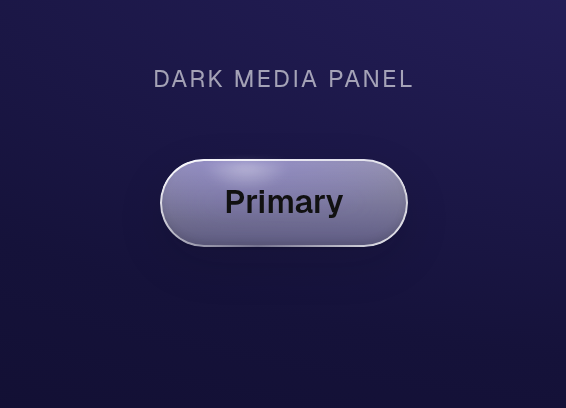
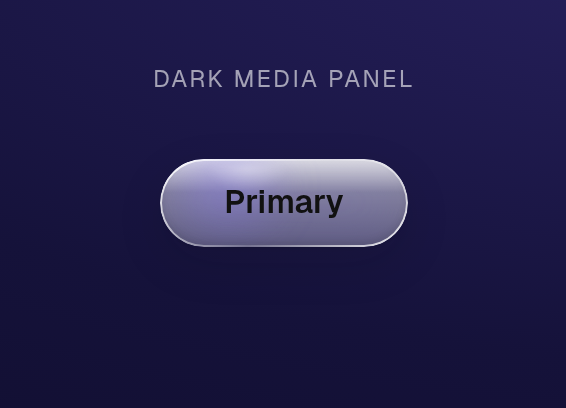
Rebuild Primary reference button as a stack of optical layers
Discard the single-element effect stack. The button is now composed of one DOM
element per physical layer (cast shadow, refractive body, internal volume,
incident light, internal reflection, specular, machined edge), per
docs/DISCIPLINE_GLASS_MATERIAL.md. The pastel violet is no longer a background
gradient: it is an internal-reflection layer — a soft, blurred, asymmetric
luminance suspended in the glass volume (clipped by the refractive body).
Only the isolated /dev/glass reference changes; no library component touched.

Claude-Session: https://claude.ai/code/session_01JSKxADquWPscGGWu93W5g6

Changed region(s): [[0.3004, 0.3824, 0.7208, 0.4706]]

diff --git a/src/app/(dev)/dev/glass/glass.css b/src/app/(dev)/dev/glass/glass.css
@@ -1,12 +1,14 @@
 /*
  * Primary reference button — DISCIPLINE Liquid Glass material.
- * Implements docs/DISCIPLINE_GLASS_MATERIAL.md by composing the canonical
- * --ds-glass-* material sub-tokens. Isolated dev reference; no library file.
- * The eight physical layers are built bottom→front: cast shadow, refractive
- * body, fill, violet capture, inner shadow/highlight, edge light, specular.
+ * REBUILT as a stack of discrete optical layers (one element per physical
+ * layer), composing the canonical --ds-glass-* sub-tokens. See
+ * docs/DISCIPLINE_GLASS_MATERIAL.md. Isolated dev reference; no library file.
+ *
+ * Implied light: one soft source, upper-left, slightly frontal — shared by the
+ * whole product. Highlights live top/upper-left; shadows bottom/lower-right.
  */
 
-.gbp {
+.gb {
   position: relative;
   isolation: isolate;
   display: inline-flex;
@@ -15,67 +17,122 @@
   height: 44px;
   padding: 0 var(--ds-space-6); /* 32px */
   border: 0;
+  background: transparent;
   border-radius: var(--ds-radius-pill);
   cursor: pointer;
 
-  /* Type */
   font-family: var(--ds-font-sans);
   font-size: var(--ds-text-body);
   font-weight: var(--ds-font-weight-semibold);
   color: var(--ds-color-text); /* dark #111 label, canonical §12.3 */
 
-  /* Layer 2 — refractive body (transmission + diffusion + saturation lift) */
+  transition: transform var(--ds-dur-fast) var(--ds-ease-standard);
+}
+
+/* All optical layers fill the pill and never catch the pointer. */
+.gb__shadow,
+.gb__glass,
+.gb__edge,
+.gb__volume,
+.gb__incident,
+.gb__reflection,
+.gb__specular {
+  position: absolute;
+  inset: 0;
+  border-radius: inherit;
+  pointer-events: none;
+}
+
+/* ── Layer: ombre portée (cast shadow) — behind the glass ─────────────── */
+.gb__shadow {
+  z-index: 0;
+  box-shadow: var(--ds-glass-shadow-contact), var(--ds-glass-shadow-ambient);
+  transition: box-shadow var(--ds-dur-fast) var(--ds-ease-standard);
+}
+
+/* ── Layer: réfraction (refractive body) — bends the background through it.
+   This is the clipping container that holds the internal optical layers, so
+   the captured light stays *inside* the glass volume. ─────────────────── */
+.gb__glass {
+  z-index: 1;
+  overflow: hidden;
   backdrop-filter: blur(var(--ds-glass-blur))
     saturate(var(--ds-glass-saturation)) brightness(var(--ds-glass-brightness));
   -webkit-backdrop-filter: blur(var(--ds-glass-blur))
     saturate(var(--ds-glass-saturation)) brightness(var(--ds-glass-brightness));
+}
 
-  /* Layer 3 fill (curved surface) + Layer 4 violet capture (asymmetric,
-     upper-left, never centered, never a full ring, fading into clarity). */
-  background:
-    radial-gradient(
-      135% 150% at 30% -20%,
-      var(--ds-glass-capture-rim) 0%,
-      var(--ds-glass-capture) 24%,
-      var(--ds-glass-capture-falloff) 62%
-    ),
-    linear-gradient(
-      180deg,
-      var(--ds-glass-fill-top) 0%,
-      var(--ds-glass-fill-bottom) 100%
-    );
+/* ── Layer: volume interne (glass thickness): lit top → shaded bottom, plus an
+   inset bottom shadow that reads as the lower inner wall. ──────────────── */
+.gb__volume {
+  background: linear-gradient(
+    180deg,
+    var(--ds-glass-fill-top) 0%,
+    var(--ds-glass-fill-bottom) 100%
+  );
+  box-shadow: inset 0 -2px 4px var(--ds-glass-inner-shadow);
+}
 
-  /* Layers 1 (cast) + 5 (inner shadow) + 6 (inner highlight) in one stack */
-  box-shadow:
-    var(--ds-glass-shadow-contact),
-    var(--ds-glass-shadow-ambient),
-    inset 0 1px 0 var(--ds-glass-inner-highlight),
-    inset 0 -2px 4px var(--ds-glass-inner-shadow);
+/* ── Layer: lumière incidente (incident light hitting the top face) ────── */
+.gb__incident {
+  background: linear-gradient(
+    180deg,
+    var(--ds-glass-inner-highlight) 0%,
+    transparent 38%
+  );
+  mix-blend-mode: screen;
+}
 
+/* ── Layer: réflexion interne (the violet light captured in the glass volume).
+   A soft, blurred, asymmetric luminance suspended upper-left — NOT a fill, NOT
+   a background gradient. Clipped by .gb__glass so it lives within the volume. */
+.gb__reflection {
+  inset: auto;
+  top: -55%;
+  left: -8%;
+  width: 70%;
+  height: 170%;
+  border-radius: 50%;
+  background: radial-gradient(
+    closest-side,
+    var(--ds-glass-capture-rim) 0%,
+    var(--ds-glass-capture) 38%,
+    var(--ds-glass-capture-falloff) 78%
+  );
+  filter: blur(9px);
   transition:
     transform var(--ds-dur-fast) var(--ds-ease-standard),
-    box-shadow var(--ds-dur-fast) var(--ds-ease-standard);
+    opacity var(--ds-dur-fast) var(--ds-ease-standard);
 }
 
-.gbp__label {
-  position: relative;
-  z-index: 1;
+/* ── Layer: reflet spéculaire (sharp glint) — small, soft, left of centre ─ */
+.gb__specular {
+  inset: auto;
+  top: 3px;
+  left: 16%;
+  width: 38%;
+  height: 40%;
+  border-radius: var(--ds-radius-pill);
+  background: radial-gradient(
+    62% 100% at 50% 0%,
+    var(--ds-glass-specular) 0%,
+    transparent 72%
+  );
+  opacity: var(--ds-glass-specular-opacity);
+  filter: blur(1.5px);
 }
 
-/* Layer 7 — luminous machined edge (1px gradient ring, bright top-left → dim) */
-.gbp::before {
-  content: '';
-  position: absolute;
-  inset: 0;
-  border-radius: inherit;
+/* ── Layer: bord de verre (luminous machined rim): 1px gradient ring,
+   bright top-left → dim. Sits above the glass so it reads as the lit edge. ─ */
+.gb__edge {
+  z-index: 2;
   padding: var(--ds-glass-edge-width);
   background: linear-gradient(
     135deg,
     var(--ds-glass-edge-light) 0%,
-    var(--ds-glass-edge-dim) 55%,
+    var(--ds-glass-edge-dim) 52%,
     var(--ds-glass-edge-light) 100%
   );
-  /* show only the 1px border band */
   -webkit-mask:
     linear-gradient(#000 0 0) content-box,
     linear-gradient(#000 0 0);
@@ -84,66 +141,50 @@
     linear-gradient(#000 0 0) content-box,
     linear-gradient(#000 0 0);
   mask-composite: exclude;
-  pointer-events: none;
-  z-index: 0;
 }
 
-/* Layer 8 — specular glint: small, soft, asymmetric (left of center, near top) */
-.gbp::after {
-  content: '';
-  position: absolute;
-  top: 2px;
-  left: 14%;
-  width: 42%;
-  height: 45%;
-  border-radius: var(--ds-radius-pill);
-  background: radial-gradient(
-    60% 100% at 50% 0%,
-    var(--ds-glass-specular) 0%,
-    transparent 70%
-  );
-  opacity: var(--ds-glass-specular-opacity);
-  filter: blur(2px);
-  pointer-events: none;
-  z-index: 0;
+.gb__label {
+  position: relative;
+  z-index: 3;
 }
 
-/* Interaction — the glass meets the light, never changes color */
-.gbp:hover {
+/* ── Interaction: the glass meets the light; the captured violet shifts but
+   never changes colour. ─────────────────────────────────────────────────── */
+.gb:hover {
   transform: translateY(-1px);
+}
+.gb:hover .gb__shadow {
   box-shadow:
-    var(--ds-glass-shadow-contact),
-    var(--ds-glass-shadow-hover),
-    var(--ds-glass-glow),
-    inset 0 1px 0 var(--ds-glass-inner-highlight),
-    inset 0 -2px 4px var(--ds-glass-inner-shadow);
+    var(--ds-glass-shadow-contact), var(--ds-glass-shadow-hover),
+    var(--ds-glass-glow);
+}
+.gb:hover .gb__reflection {
+  transform: translate(2%, -3%);
 }
 
-.gbp:active {
+.gb:active {
   transform: scale(0.98);
-  box-shadow:
-    var(--ds-glass-shadow-contact),
-    var(--ds-glass-shadow-ambient),
-    var(--ds-glass-glow),
-    inset 0 1px 3px var(--ds-glass-inner-shadow);
+}
+.gb:active .gb__shadow {
+  box-shadow: var(--ds-glass-shadow-contact), var(--ds-glass-glow);
+}
+.gb:active .gb__reflection {
+  transform: translate(0, 2%);
+  opacity: 0.85;
 }
 
-.gbp:focus-visible {
+.gb:focus-visible {
   outline: var(--ds-focus-ring-width) solid var(--ds-focus-ring-color);
   outline-offset: var(--ds-focus-ring-offset);
-  box-shadow:
-    var(--ds-focus-ring-halo),
-    var(--ds-glass-shadow-contact),
-    var(--ds-glass-shadow-ambient),
-    inset 0 1px 0 var(--ds-glass-inner-highlight),
-    inset 0 -2px 4px var(--ds-glass-inner-shadow);
 }
 
 @media (prefers-reduced-motion: reduce) {
-  .gbp {
+  .gb,
+  .gb__shadow,
+  .gb__reflection {
     transition-duration: 0.01ms;
   }
-  .gbp:active {
+  .gb:active {
     transform: none;
   }
 }

diff --git a/src/app/(dev)/dev/glass/glass-button-primary.tsx b/src/app/(dev)/dev/glass/glass-button-primary.tsx
@@ -2,8 +2,21 @@ import './glass.css'
 
 /**
  * GlassButtonPrimary — the single reference for the DISCIPLINE glass material.
- * Isolated dev reference (not part of the component library yet). Once validated
- * visually, this material becomes the absolute reference every primitive copies.
+ *
+ * Rebuilt from scratch as a STACK OF OPTICAL LAYERS (not effects piled on one
+ * element). Each child is one physical layer of the material, per
+ * docs/DISCIPLINE_GLASS_MATERIAL.md. Back → front:
+ *
+ *   gb__shadow      — ombre portée (cast shadow, sits behind the glass)
+ *   gb__glass       — réfraction (the refractive body that bends the background)
+ *     gb__volume      — volume interne (glass thickness, lit top → shaded bottom)
+ *     gb__incident    — lumière incidente (light hitting the top face)
+ *     gb__reflection  — réflexion interne (the violet light captured in the volume)
+ *     gb__specular    — reflet spéculaire (sharp glint)
+ *   gb__edge        — bord de verre (luminous machined rim)
+ *   gb__label       — content
+ *
+ * Isolated dev reference; no library component is involved.
  */
 export function GlassButtonPrimary({
   children,
@@ -11,8 +24,16 @@ export function GlassButtonPrimary({
   children: React.ReactNode
 }) {
   return (
-    <button type="button" className="gbp">
-      <span className="gbp__label">{children}</span>
+    <button type="button" className="gb">
+      <span className="gb__shadow" aria-hidden />
+      <span className="gb__glass" aria-hidden>
+        <span className="gb__volume" />
+        <span className="gb__incident" />
+        <span className="gb__reflection" />
+        <span className="gb__specular" />
+      </span>
+      <span className="gb__edge" aria-hidden />
+      <span className="gb__label">{children}</span>
     </button>
   )
 }
